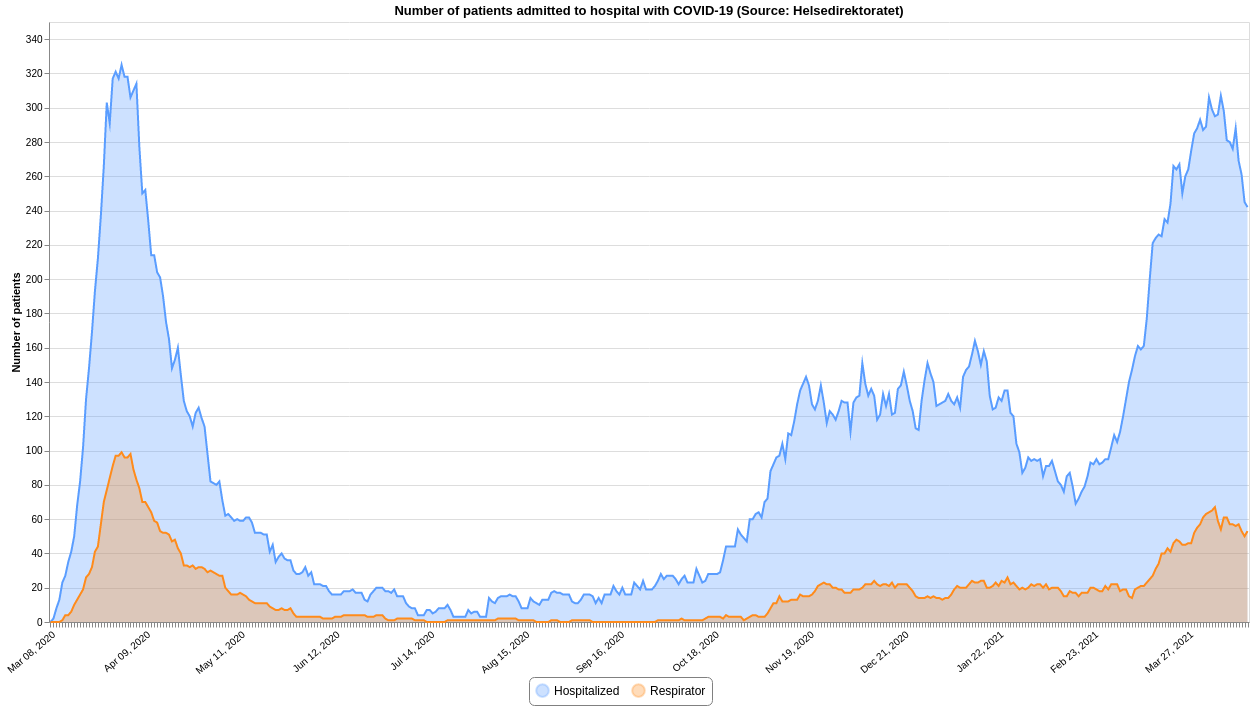
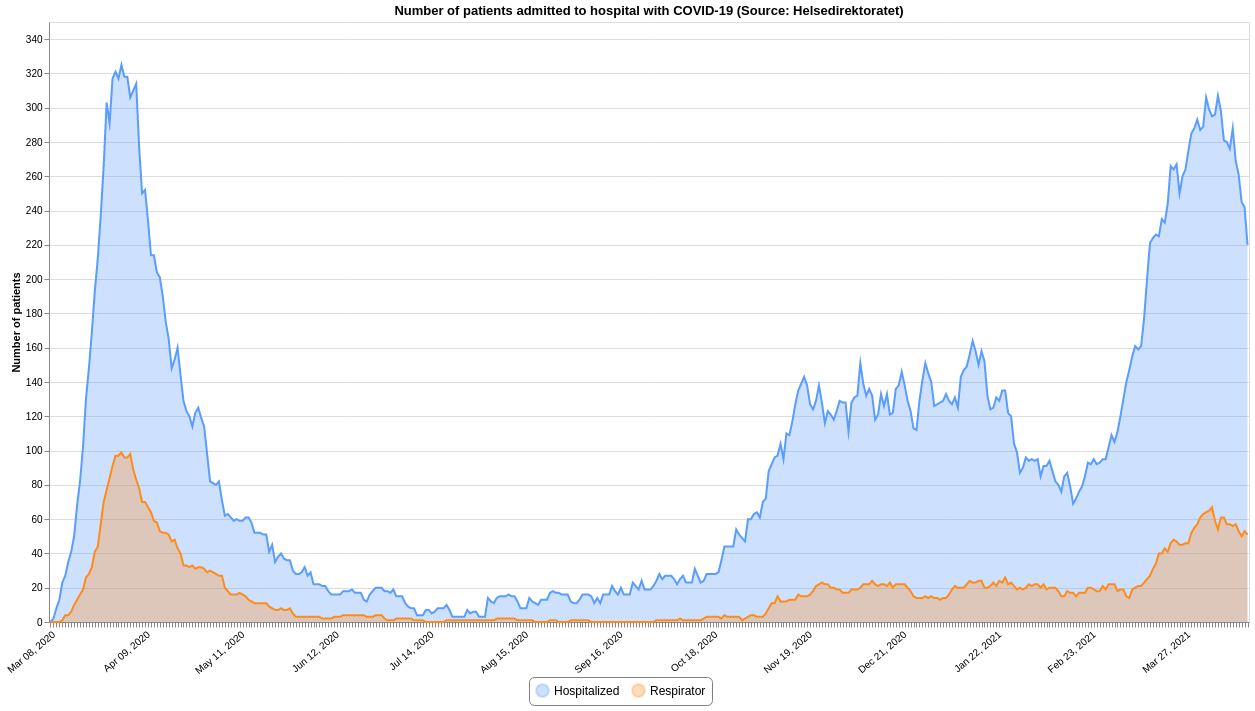
Updated 2021-04-17 13:00

diff --git a/README.md b/README.md
@@ -12,7 +12,7 @@ This repository contains datasets of daily time-series data related to COVID-19 
 | :--- | :--- | :--- | :--- | :--- |
 |[Confirmed](#confirmedcsv)|FHI / MSIS|2021-04-17 00:10:42+02:00|[<center>csv</center>](https://raw.githubusercontent.com/frefrik/c19norge-data/main/data/confirmed.csv)|[<center>preview</center>](data/confirmed.csv)|
 |[Dead](#deadcsv)|FHI|2021-04-16 13:30:56+02:00|[<center>csv</center>](https://raw.githubusercontent.com/frefrik/c19norge-data/main/data/dead.csv)|[<center>preview</center>](data/dead.csv)|
-|[Hospitalized](#hospitalizedcsv)|Helsedirektoratet|2021-04-16 13:00:44+02:00|[<center>csv</center>](https://raw.githubusercontent.com/frefrik/c19norge-data/main/data/hospitalized.csv)|[<center>preview</center>](data/hospitalized.csv)|
+|[Hospitalized](#hospitalizedcsv)|Helsedirektoratet|2021-04-17 13:00:43+02:00|[<center>csv</center>](https://raw.githubusercontent.com/frefrik/c19norge-data/main/data/hospitalized.csv)|[<center>preview</center>](data/hospitalized.csv)|
 |[Tested](#testedcsv)|FHI|2021-04-16 13:00:43+02:00|[<center>csv</center>](https://raw.githubusercontent.com/frefrik/c19norge-data/main/data/tested.csv)|[<center>preview</center>](data/tested.csv)|
 |[Tested Lab](#tested_labcsv)|FHI|2021-04-16 13:30:52+02:00|[<center>csv</center>](https://raw.githubusercontent.com/frefrik/c19norge-data/main/data/tested_lab.csv)|[<center>preview</center>](data/tested_lab.csv)|
 |[Transport](#transportcsv)|FHI|2021-04-16 11:20:50+02:00|[<center>csv</center>](https://raw.githubusercontent.com/frefrik/c19norge-data/main/data/transport.csv)|[<center>preview</center>](data/transport.csv)|
